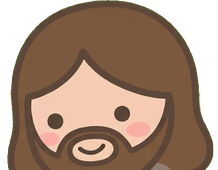
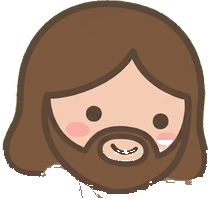
홈: 예수님 얼굴과 몸 방향을 맞추고, 머리·수염을 잘림 없이 자연스럽게

diff --git a/index.html b/index.html
@@ -261,7 +261,7 @@ $("list").innerHTML=ZONES.map(z=>'<li><b>'+z.name+'</b> — '+z.items.map(it=>it
 /* 예수님이 언덕 위에서 양 떼를 몰고 다님 (앞 양이 길을 내고, 나머지 양과 예수님이 그 길을 따라감) */
 (function(){
 const hills=document.querySelector(".hills");if(!hills)return;
-const JESUS='<svg viewBox="-10 0 240 340" aria-hidden="true"><g class="ft ftL"><ellipse cx="88" cy="312" rx="17" ry="8" fill="#8a5528"/><ellipse cx="84" cy="306" rx="11" ry="7" fill="#f2c7a5" stroke="#7d6a5e" stroke-width="3"/></g><g class="ft ftR"><ellipse cx="132" cy="312" rx="17" ry="8" fill="#8a5528"/><ellipse cx="136" cy="306" rx="11" ry="7" fill="#f2c7a5" stroke="#7d6a5e" stroke-width="3"/></g><g class="armB"><path d="M150 162Q178 196 176 238L156 242Q156 204 136 178Z" fill="#eef8fb" stroke="#7d6a5e" stroke-width="5" stroke-linejoin="round"/><circle cx="167" cy="244" r="11" fill="#f2c7a5" stroke="#7d6a5e" stroke-width="4"/></g><path d="M64 150Q110 136 156 150L178 300Q110 314 42 300Z" fill="#eef8fb" stroke="#7d6a5e" stroke-width="5" stroke-linejoin="round"/><path d="M134 146L158 154L80 282L58 270Z" fill="#c8102e"/><path d="M42 300Q110 314 178 300" fill="none" stroke="#7d6a5e" stroke-width="5" stroke-linecap="round"/><g class="staff"><path d="M14 318L4 104" stroke="#a0703f" stroke-width="8" stroke-linecap="round"/><path d="M5 106Q-6 66 22 64Q50 64 44 96" fill="none" stroke="#a0703f" stroke-width="8" stroke-linecap="round"/><path d="M72 164Q40 186 22 214L40 228Q58 200 86 184Z" fill="#eef8fb" stroke="#7d6a5e" stroke-width="5" stroke-linejoin="round"/><circle cx="24" cy="222" r="12" fill="#f2c7a5" stroke="#7d6a5e" stroke-width="4"/></g><image href="assets/jesus-head.png" x="1" y="0" width="218" height="170"/></svg>';
+const JESUS='<svg viewBox="-10 -8 240 348" aria-hidden="true"><g class="ft ftL"><ellipse cx="88" cy="312" rx="17" ry="8" fill="#8a5528"/><ellipse cx="84" cy="306" rx="11" ry="7" fill="#f2c7a5" stroke="#7d6a5e" stroke-width="3"/></g><g class="ft ftR"><ellipse cx="132" cy="312" rx="17" ry="8" fill="#8a5528"/><ellipse cx="127" cy="306" rx="11" ry="7" fill="#f2c7a5" stroke="#7d6a5e" stroke-width="3"/></g><g class="armB"><path d="M150 162Q178 196 176 238L156 242Q156 204 136 178Z" fill="#eef8fb" stroke="#7d6a5e" stroke-width="5" stroke-linejoin="round"/><circle cx="167" cy="244" r="11" fill="#f2c7a5" stroke="#7d6a5e" stroke-width="4"/></g><path d="M64 150Q110 136 156 150L178 300Q110 314 42 300Z" fill="#eef8fb" stroke="#7d6a5e" stroke-width="5" stroke-linejoin="round"/><path d="M134 146L158 154L80 282L58 270Z" fill="#c8102e"/><path d="M42 300Q110 314 178 300" fill="none" stroke="#7d6a5e" stroke-width="5" stroke-linecap="round"/><g class="staff"><path d="M14 318L4 104" stroke="#a0703f" stroke-width="8" stroke-linecap="round"/><path d="M5 106Q-6 66 22 64Q50 64 44 96" fill="none" stroke="#a0703f" stroke-width="8" stroke-linecap="round"/><path d="M72 164Q40 186 22 214L40 228Q58 200 86 184Z" fill="#eef8fb" stroke="#7d6a5e" stroke-width="5" stroke-linejoin="round"/><circle cx="24" cy="222" r="12" fill="#f2c7a5" stroke="#7d6a5e" stroke-width="4"/></g><image href="assets/jesus-head.png?v=2" x="4" y="-6" width="211" height="198"/></svg>';
 const lane=document.createElement("div");lane.className="parade";hills.appendChild(lane);
 const mk=(html,cls,w)=>{const d=document.createElement("div");d.className="pw "+cls;d.innerHTML=html;d.firstChild.style.width=w+"px";lane.appendChild(d);return d};
 const small=innerWidth<560,SW=small?40:56,JW=small?58:80,GAP=small?34:46,N=small?3:4,JG=small?50:68;
